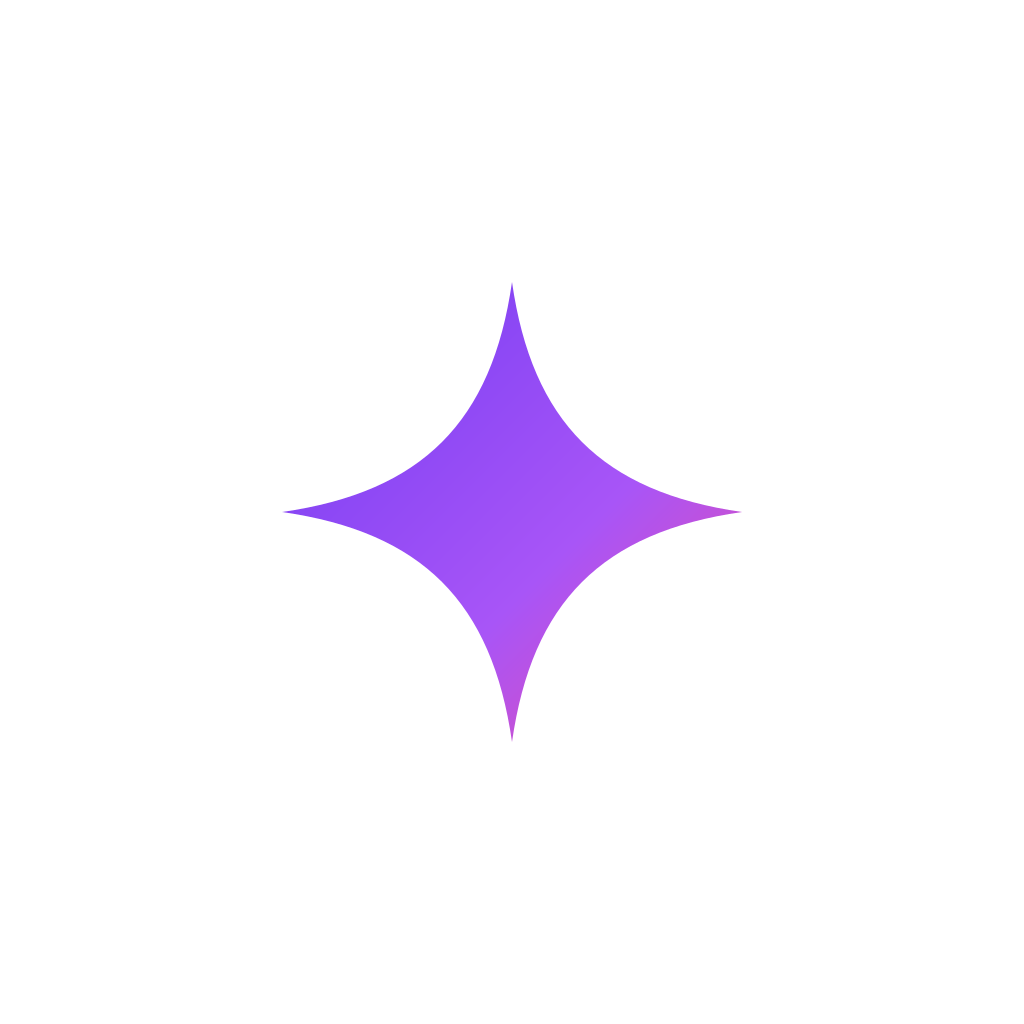
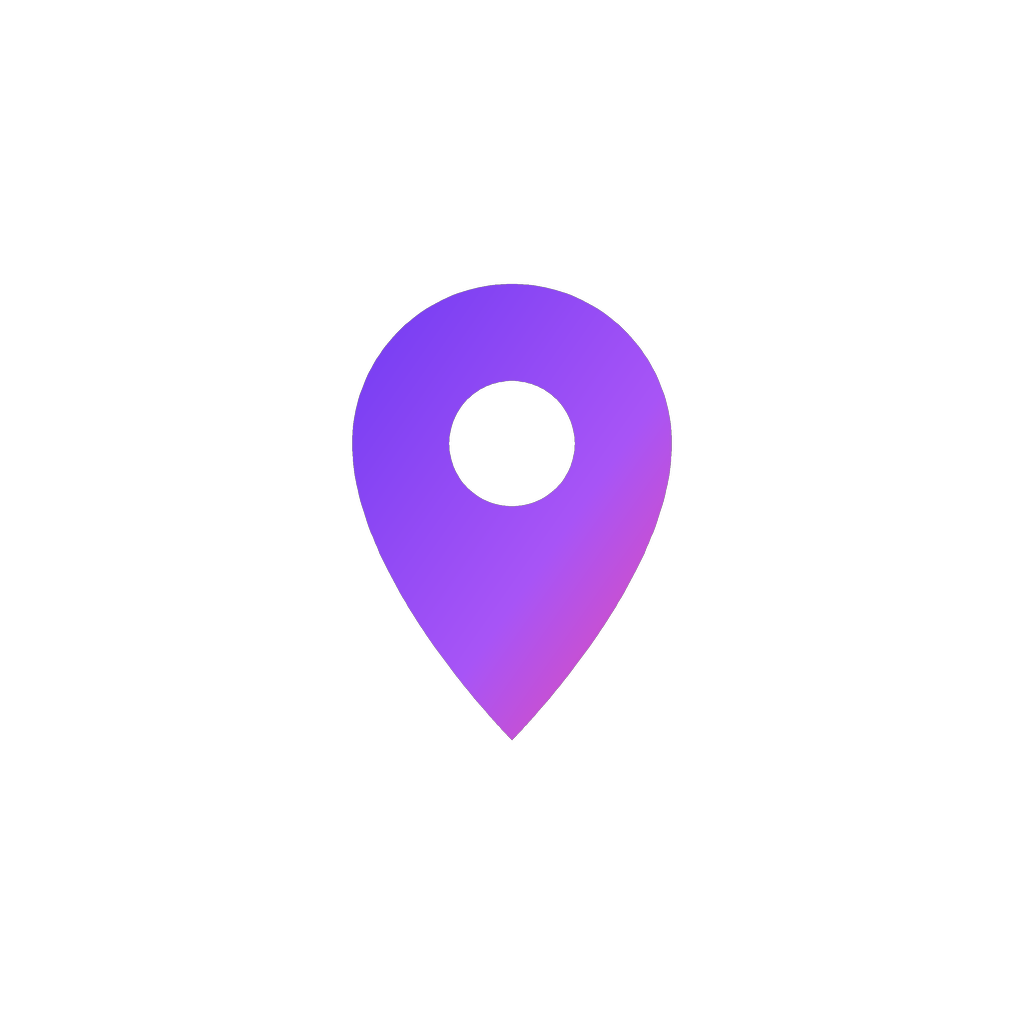
commit

Changed region(s): [[0.2812, 0.25, 0.7188, 0.5312], [0.375, 0.5312, 0.625, 0.7188]]

diff --git a/apps/api/src/notifications.ts b/apps/api/src/notifications.ts
@@ -19,11 +19,11 @@ export class NoopPushSender implements PushSender {
 export const PUSH_CHANNELS = ['invites', 'messages', 'open_calls', 'safety'] as const;
 type PushCopy = { title: string; body: string; channel: (typeof PUSH_CHANNELS)[number] };
 const COPY: Record<NotificationKind, PushCopy> = {
-  invite_received: { title: 'New invitation', body: 'Someone would like to say hi. Open SideQuest to respond.', channel: 'invites' },
+  invite_received: { title: 'New invitation', body: 'Someone would like to say hi. Open Waypoint to respond.', channel: 'invites' },
   invite_accepted: { title: 'Invitation accepted', body: 'It is on. Check your calendar for the details.', channel: 'invites' },
   invite_declined: { title: 'Invitation update', body: 'This invitation was not taken up this time.', channel: 'invites' },
   invite_too_new: { title: 'A gentle reply', body: 'They would like to take things slowly for now. No pressure either way.', channel: 'invites' },
-  invite_reschedule_requested: { title: 'New time suggested', body: 'Open SideQuest to accept it or suggest another.', channel: 'invites' },
+  invite_reschedule_requested: { title: 'New time suggested', body: 'Open Waypoint to accept it or suggest another.', channel: 'invites' },
   invite_rescheduled: { title: 'Time updated', body: 'Your plan has a new time. Your calendar is updated.', channel: 'invites' },
   invite_cancelled: { title: 'Plan cancelled', body: 'A plan on your calendar was cancelled.', channel: 'invites' },
   invite_expired: { title: 'Invitation expired', body: 'An invitation timed out without a reply.', channel: 'invites' },
@@ -32,28 +32,28 @@ const COPY: Record<NotificationKind, PushCopy> = {
   post_meet_prompt: { title: 'How did it go?', body: 'Two quick private questions help keep everyone safe.', channel: 'safety' },
   roulette_group_ready: { title: 'Your table is ready', body: 'Your Social Roulette group is set. Open the app for details.', channel: 'open_calls' },
   open_call_expired: { title: 'Open Call ended', body: 'One of your Open Calls has ended.', channel: 'open_calls' },
-  open_call_interest: { title: 'Someone is interested', body: 'Open SideQuest to see who and decide.', channel: 'open_calls' },
-  open_call_accepted: { title: 'You are in', body: 'Your spot is confirmed. Open SideQuest for details.', channel: 'open_calls' },
+  open_call_interest: { title: 'Someone is interested', body: 'Open Waypoint to see who and decide.', channel: 'open_calls' },
+  open_call_accepted: { title: 'You are in', body: 'Your spot is confirmed. Open Waypoint for details.', channel: 'open_calls' },
   open_call_update: { title: 'Open Call update', body: 'Something changed with a plan you are part of.', channel: 'open_calls' },
   activity_update: { title: 'Activity update', body: 'Something changed with an activity you joined.', channel: 'open_calls' },
-  message_received: { title: 'New message', body: 'Open SideQuest to read it.', channel: 'messages' },
-  wing_invited: { title: 'A request from a friend', body: 'Someone asked you to be their wingperson. Open SideQuest to decide.', channel: 'invites' },
+  message_received: { title: 'New message', body: 'Open Waypoint to read it.', channel: 'messages' },
+  wing_invited: { title: 'A request from a friend', body: 'Someone asked you to be their wingperson. Open Waypoint to decide.', channel: 'invites' },
   wing_suggestion: { title: 'A suggestion for you', body: 'A suggestion is waiting. Nothing changes unless you accept it.', channel: 'invites' },
-  team_invited: { title: 'Team invitation', body: 'You have been invited to join a team. Open SideQuest to respond.', channel: 'open_calls' },
-  double_date_request: { title: 'A plan request', body: 'Another team would like to plan something together. Open SideQuest to respond.', channel: 'open_calls' },
+  team_invited: { title: 'Team invitation', body: 'You have been invited to join a team. Open Waypoint to respond.', channel: 'open_calls' },
+  double_date_request: { title: 'A plan request', body: 'Another team would like to plan something together. Open Waypoint to respond.', channel: 'open_calls' },
   double_date_update: { title: 'Plan update', body: 'Something changed with a plan you are part of.', channel: 'open_calls' },
   roulette_update: { title: 'Table update', body: 'Something changed with your Social Roulette table.', channel: 'open_calls' },
-  game_invite: { title: 'Game invitation', body: 'Someone would like to play a short game. Open SideQuest to join.', channel: 'messages' },
-  circle_request: { title: 'Circle update', body: 'There is a new request on a circle you run. Open SideQuest to review it.', channel: 'open_calls' },
-  couple_invited: { title: 'A request to link up', body: 'You have a request waiting. Open SideQuest to review it.', channel: 'invites' },
-  trusted_added: { title: 'You were added as a trusted contact', body: 'Open SideQuest to see what that means. You can step down at any time.', channel: 'safety' },
+  game_invite: { title: 'Game invitation', body: 'Someone would like to play a short game. Open Waypoint to join.', channel: 'messages' },
+  circle_request: { title: 'Circle update', body: 'There is a new request on a circle you run. Open Waypoint to review it.', channel: 'open_calls' },
+  couple_invited: { title: 'A request to link up', body: 'You have a request waiting. Open Waypoint to review it.', channel: 'invites' },
+  trusted_added: { title: 'You were added as a trusted contact', body: 'Open Waypoint to see what that means. You can step down at any time.', channel: 'safety' },
   checkin_prompt: { title: 'Time to check in', body: 'Let us know you are okay. It takes one tap.', channel: 'safety' },
   checkin_missed: { title: 'Please check on a friend', body: 'A friend has not confirmed they are okay. Please try to reach them.', channel: 'safety' },
   checkin_help: { title: 'A friend asked for help', body: 'A friend has asked for help. Please reach out to them now.', channel: 'safety' },
   checkin_safe: { title: 'Good news', body: 'The friend you were worried about has confirmed they are okay.', channel: 'safety' },
-  moderation_notice: { title: 'An update on your account', body: 'Open SideQuest to read an important message about your account.', channel: 'safety' },
+  moderation_notice: { title: 'An update on your account', body: 'Open Waypoint to read an important message about your account.', channel: 'safety' },
   verification_result: { title: 'Photo verification update', body: 'Your photo verification was reviewed. Open the app to see the result.', channel: 'safety' },
-  export_ready: { title: 'Your data export is ready', body: 'Open SideQuest within 7 days to download it.', channel: 'safety' },
+  export_ready: { title: 'Your data export is ready', body: 'Open Waypoint within 7 days to download it.', channel: 'safety' },
 };
 /** True when this code knows how to word a push for `kind` (the database may know kinds this deployment does not). */
 export const hasPushCopy = (kind: string): kind is NotificationKind => (NOTIFICATION_KINDS as readonly string[]).includes(kind);

diff --git a/packages/shared/test/brand.test.ts b/packages/shared/test/brand.test.ts
@@ -1,0 +1,41 @@
+import { test } from 'node:test';
+import assert from 'node:assert/strict';
+import { readdirSync, readFileSync, statSync } from 'node:fs';
+import { join } from 'node:path';
+
+// The product is called Waypoint. These tests keep the old name out of everything people can see, and keep the identifiers that must NOT change.
+const root = new URL('../../../', import.meta.url).pathname;
+function files(dir: string, out: string[] = []): string[] {
+  for (const n of readdirSync(dir)) {
+    if (n === 'node_modules' || n === '.git' || n === 'migrations' || n.startsWith('.')) continue;
+    const p = join(dir, n); const s = statSync(p);
+    if (s.isDirectory()) files(p, out); else if (/\.(ts|tsx|json|mjs|html)$/.test(n) && !/package-lock|pnpm-lock/.test(n)) out.push(p);
+  }
+  return out;
+}
+
+test('the old product name appears nowhere in app, API or shared code', () => {
+  const hits: string[] = [];
+  for (const d of ['apps/api/src', 'apps/api/test', 'apps/mobile/app', 'apps/mobile/src', 'apps/mobile/test', 'packages/shared/src']) {
+    for (const f of files(join(root, d))) if (/side\s?quest/i.test(readFileSync(f, 'utf8').replace(/@sidequest\/shared/g, '').replace(/sidequest:\/\//g, '').replace(/app\.sidequest\.android/g, '').replace(/@sidequest\.app/g, '').replace(/inv-1@sidequest/g, ''))) hits.push(f.replace(root, ''));
+  }
+  assert.deepEqual(hits, [], 'rename these (user-visible text), or add the identifier to the allowed list in this test');
+});
+
+test('app.json: the phone shows Waypoint, and the identifiers that must stay stable are unchanged', () => {
+  const app = JSON.parse(readFileSync(join(root, 'apps/mobile/app.json'), 'utf8')).expo;
+  assert.equal(app.name, 'Waypoint');
+  assert.equal(app.android.package, 'app.sidequest.android');   // permanent once uploaded to Google Play, and tied to google-services.json
+  assert.equal(app.slug, 'sidequest');                          // identity of the EAS project
+  assert.equal(app.scheme, 'sidequest');                        // sign-in and verification return links (Supabase and Didit are set up with it)
+  assert.equal(app.android.googleServicesFile, './google-services.json');
+  const text = JSON.stringify(app);
+  assert.ok(/Waypoint uses the photos/.test(text) && /Waypoint uses your approximate location/.test(text), 'permission explanations use the new name');
+});
+
+test('the calendar file and notification text use the new name', () => {
+  const api = readFileSync(join(root, 'apps/api/src/app.ts'), 'utf8');
+  assert.ok(api.includes('filename="waypoint-${id}.ics"'));
+  assert.ok(readFileSync(join(root, 'packages/shared/src/ics.ts'), 'utf8').includes('PRODID:-//Waypoint//Calendar//EN'));
+  assert.ok(readFileSync(join(root, 'apps/api/src/notifications.ts'), 'utf8').includes('Open Waypoint to read it.'));
+});

diff --git a/apps/mobile/src/core/safety-core.ts b/apps/mobile/src/core/safety-core.ts
@@ -22,7 +22,7 @@ export function restrictedView(state: string, requests: DataRequestRow[]): Restr
     if (del) return { kind: 'deletion_pending', headline: 'Your account is scheduled for deletion', body: 'Nobody can see your profile now. If you change your mind you can cancel before the date below and everything comes back.', canAppeal: false, canCancelDeletion: true, deletesAt: deletionDate(del.requested_at) };
     return { kind: 'closed', headline: 'Your account is closed', body: 'This account has been closed and its data is being or has been removed.', canAppeal: false, canCancelDeletion: false, deletesAt: null };
   }
-  if (state === 'banned') return { kind: 'banned', headline: 'Your account has been closed by our team', body: 'We removed this account to keep SideQuest safe. If you think this was a mistake you can ask for a review. A person reads every appeal.', canAppeal: true, canCancelDeletion: false, deletesAt: null };
+  if (state === 'banned') return { kind: 'banned', headline: 'Your account has been closed by our team', body: 'We removed this account to keep Waypoint safe. If you think this was a mistake you can ask for a review. A person reads every appeal.', canAppeal: true, canCancelDeletion: false, deletesAt: null };
   return { kind: 'suspended', headline: 'Your account is on hold', body: 'Our team paused this account for now. Some holds end by themselves. If you think this was a mistake you can ask for a review. A person reads every appeal.', canAppeal: true, canCancelDeletion: false, deletesAt: null };
 }
 export const APPEAL = { min: 10, max: 1000 };
@@ -54,7 +54,7 @@ export function summarizeData(rows: DataRequestRow[], now: Date): DataSummary {
   return { exportState, exportRequest: latest, deletion, deletesAt: deletion ? deletionDate(deletion.requested_at) : null };
 }
 export const exportStateText: Record<DataSummary['exportState'], string> = {
-  none: 'Get a copy of the information SideQuest holds about you.', preparing: 'Preparing your export. This usually takes a few minutes.',
+  none: 'Get a copy of the information Waypoint holds about you.', preparing: 'Preparing your export. This usually takes a few minutes.',
   ready: 'Your export is ready. The download link works for 5 minutes each time you open it, and the file is kept for 7 days.',
   failed: 'The last export did not work. You can ask for a new one.', expired: 'Your last export has expired. You can ask for a new one.',
 };

diff --git a/apps/api/test/public-pages.test.ts b/apps/api/test/public-pages.test.ts
@@ -10,7 +10,7 @@ import { loadConfig } from '../src/config.ts';
 import { setup } from './helpers.ts';
 
 const SUPA = 'https://p.supabase.co';
-const LEGAL: LegalConfig = { legalName: 'Acme <b>Ltd</b>', contactEmail: 'hello@acme.test', childSafetyEmail: 'safety@acme.test', supabaseUrl: SUPA, anonKey: 'anon', appName: 'SideQuest' };
+const LEGAL: LegalConfig = { legalName: 'Acme <b>Ltd</b>', contactEmail: 'hello@acme.test', childSafetyEmail: 'safety@acme.test', supabaseUrl: SUPA, anonKey: 'anon', appName: 'Waypoint' };
 
 test('privacy policy covers what Google Play requires and what the app really does', () => {
   const h = privacyHtml(LEGAL, 'N');
@@ -61,7 +61,7 @@ test('HTTP: pages stay OFF until the legal name and contact email are configured
 test('config: pages switch on from LEGAL_NAME and CONTACT_EMAIL; child-safety contact defaults to the main one', () => {
   const base = { DATABASE_URL: 'x', SUPABASE_URL: 'https://a.supabase.co' };
   const c = loadConfig({ ...base, LEGAL_NAME: ' Acme ', CONTACT_EMAIL: 'a@b.c' });
-  assert.deepEqual([c.legalName, c.contactEmail, c.childSafetyEmail, c.appName], ['Acme', 'a@b.c', 'a@b.c', 'SideQuest']);
+  assert.deepEqual([c.legalName, c.contactEmail, c.childSafetyEmail, c.appName], ['Acme', 'a@b.c', 'a@b.c', 'Waypoint']);
   assert.equal(loadConfig({ ...base, LEGAL_NAME: 'Acme', CONTACT_EMAIL: 'a@b.c', CHILD_SAFETY_EMAIL: 's@b.c' }).childSafetyEmail, 's@b.c');
   assert.equal(loadConfig(base).legalName, null);
 });

diff --git a/apps/mobile/app/invite/[id].tsx b/apps/mobile/app/invite/[id].tsx
@@ -75,7 +75,7 @@ export default function InviteDetail() {
 
         {inv.state === 'too_new' && party === 'sender' ? <><Spacer /><Card><AppText>{name} is not ready to schedule something yet, but may be open to getting to know you. There is nothing you need to do. If they would like to say hello, they will.</AppText></Card></> : null}
         {inv.state === 'too_new' && party === 'recipient' ? <><Spacer /><Card><AppText variant="caption">You told them you are not ready to schedule yet. You can say hello when you feel like it, or suggest a time.</AppText></Card></> : null}
-        {confirmed && isCall ? <><Spacer /><Card><AppText variant="caption">This is a {FORMAT_LABELS[inv.format as Format].toLowerCase()}. In-app calling arrives in a later update. Until then, chat in SideQuest at the agreed time.</AppText></Card></> : null}
+        {confirmed && isCall ? <><Spacer /><Card><AppText variant="caption">This is a {FORMAT_LABELS[inv.format as Format].toLowerCase()}. In-app calling arrives in a later update. Until then, chat in Waypoint at the agreed time.</AppText></Card></> : null}
 
         <Spacer />
         {actions.includes('accept') ? <><Button label="Accept" loading={busy === 'accept'} onPress={() => void run('accept', () => api.accept(inv.id))} /><Spacer h={10} /></> : null}

diff --git a/apps/mobile/app/invite/new.tsx b/apps/mobile/app/invite/new.tsx
@@ -39,7 +39,7 @@ export default function NewInvite() {
       <Spacer />
       <AppText variant="title">How?</AppText><Spacer h={8} />
       <Wrap>{FORMATS.map((f) => <Chip key={f} label={FORMAT_LABELS[f]} selected={format === f} onPress={() => setFormat(f)} />)}</Wrap>
-      <View style={{ flexDirection: 'row', alignItems: 'center', gap: 6, marginTop: 8 }}><Ionicons name={FORMAT_ICONS[format] as never} size={16} color={colors.textMuted} /><AppText variant="caption">{format === 'text' || format === 'intro_chat' ? 'Happens in a SideQuest chat at the agreed time.' : 'You will meet at the agreed time. In-app calling arrives in a later update, so you can chat in SideQuest until then.'}</AppText></View>
+      <View style={{ flexDirection: 'row', alignItems: 'center', gap: 6, marginTop: 8 }}><Ionicons name={FORMAT_ICONS[format] as never} size={16} color={colors.textMuted} /><AppText variant="caption">{format === 'text' || format === 'intro_chat' ? 'Happens in a Waypoint chat at the agreed time.' : 'You will meet at the agreed time. In-app calling arrives in a later update, so you can chat in Waypoint until then.'}</AppText></View>
       <Spacer />
       <AppText variant="title">When?</AppText><Spacer h={8} />
       <TimePicker value={when} onChange={setWhen} />

diff --git a/apps/api/src/config.ts b/apps/api/src/config.ts
@@ -55,7 +55,7 @@ export function loadConfig(env: Record<string, string | undefined>, role: 'api' 
     callsEnabled: wantCalls && livekit !== null, livekit, corsOrigin: env.CORS_ORIGIN?.trim() || null,
     photoModeration: pm as 'required' | 'off', serviceRoleKey: env.SUPABASE_SERVICE_ROLE_KEY?.trim() || null,
     webhookSecret: env.WEBHOOK_SECRET?.trim() || null, anonKey: env.SUPABASE_ANON_KEY?.trim() || null,
-    legalName: env.LEGAL_NAME?.trim() || null, contactEmail: env.CONTACT_EMAIL?.trim() || null, childSafetyEmail: env.CHILD_SAFETY_EMAIL?.trim() || env.CONTACT_EMAIL?.trim() || null, appName: env.APP_NAME?.trim() || 'SideQuest',
+    legalName: env.LEGAL_NAME?.trim() || null, contactEmail: env.CONTACT_EMAIL?.trim() || null, childSafetyEmail: env.CHILD_SAFETY_EMAIL?.trim() || env.CONTACT_EMAIL?.trim() || null, appName: env.APP_NAME?.trim() || 'Waypoint',
     didit: diditSet.length === diditKeys.length ? { apiKey: env.DIDIT_API_KEY!.trim(), workflowId: env.DIDIT_WORKFLOW_ID!.trim(), webhookSecret: env.DIDIT_WEBHOOK_SECRET!.trim(), baseUrl: env.DIDIT_BASE_URL?.trim() || null, minScore, monthlyCap, returnUrl: env.VERIFY_RETURN_URL?.trim() || 'sidequest://safety/verify' } : null,
   };
 }

diff --git a/apps/mobile/src/design/Logo.tsx b/apps/mobile/src/design/Logo.tsx
@@ -1,17 +1,17 @@
 import Svg, { Defs, LinearGradient, Path, Stop } from 'react-native-svg';
 
-/** Four-point sparkle in the brand gradient. Pure vector, scales to any size. */
+/** Waypoint: a map pin in the brand gradient. Pure vector, scales to any size. (Same shape as assets/icon.png.) */
 export function Logo({ size = 64 }: { size?: number }) {
   return (
-    <Svg width={size} height={size} viewBox="0 0 100 100" accessibilityLabel="SideQuest logo">
+    <Svg width={size} height={size} viewBox="0 0 100 100" accessibilityLabel="Waypoint logo">
       <Defs>
-        <LinearGradient id="sq" x1="0" y1="0" x2="1" y2="1">
+        <LinearGradient id="wp" x1="0" y1="0" x2="1" y2="1">
           <Stop offset="0" stopColor="#713BF2" />
           <Stop offset="0.6" stopColor="#A855F7" />
           <Stop offset="1" stopColor="#EF4BA8" />
         </LinearGradient>
       </Defs>
-      <Path d="M50 4 C54 32 68 46 96 50 C68 54 54 68 50 96 C46 68 32 54 4 50 C32 46 46 32 50 4 Z" fill="url(#sq)" />
+      <Path d="M50 92 C50 92 22 64 22 40 A28 28 0 0 1 78 40 C78 64 50 92 50 92 Z M50 29 A11 11 0 1 0 50 51 A11 11 0 1 0 50 29 Z" fill="url(#wp)" fillRule="evenodd" />
     </Svg>
   );
 }

diff --git a/apps/mobile/src/core/onboarding.ts b/apps/mobile/src/core/onboarding.ts
@@ -86,7 +86,7 @@ export function nameProblem(raw: string): string | null {
   const n = raw.trim();
   if (n.length < LIMITS.nameMin) return `Your name needs at least ${LIMITS.nameMin} characters.`;
   if (n.length > LIMITS.nameMax) return `Keep your name under ${LIMITS.nameMax} characters.`;
-  if (/@|https?:|www\.|\.com\b/i.test(n) || /\d{6,}/.test(n.replace(/[\s-]/g, ''))) return 'Please leave contact details out of your name. You can chat inside SideQuest.';
+  if (/@|https?:|www\.|\.com\b/i.test(n) || /\d{6,}/.test(n.replace(/[\s-]/g, ''))) return 'Please leave contact details out of your name. You can chat inside Waypoint.';
   return null;
 }
 
@@ -98,7 +98,7 @@ export function validateStep(step: Step, s: OnboardingState, now: Date): string[
       let age: number;
       try { age = ageOn(s.dob, now); } catch { e.push('That date does not look right.'); break; }
       if (age > 110) e.push('That date does not look right.');
-      else if (!isAdult(s.dob, now)) e.push('SideQuest is for adults. You need to be 18 or over.');
+      else if (!isAdult(s.dob, now)) e.push('Waypoint is for adults. You need to be 18 or over.');
       break;
     }
     case 'basics': {

diff --git a/apps/mobile/app/safety/index.tsx b/apps/mobile/app/safety/index.tsx
@@ -30,7 +30,7 @@ export default function SafetyHub() {
         <AppText variant="headline">{code.data ? formatFriendCode(code.data) : '...'}</AppText>
         {code.error || error ? <ErrorText>{code.error ?? error}</ErrorText> : null}
         <Spacer h={8} />
-        <Button label="Share my code" disabled={!code.data} onPress={() => void Share.share({ message: `Add me on SideQuest with this friend code: ${formatFriendCode(code.data ?? '')}` })} />
+        <Button label="Share my code" disabled={!code.data} onPress={() => void Share.share({ message: `Add me on Waypoint with this friend code: ${formatFriendCode(code.data ?? '')}` })} />
         <Spacer h={8} />
         <Button kind="ghost" label="Get a new code" loading={busy} onPress={() => Alert.alert('Get a new code?', 'Your old code stops working. People you already added are not affected.', [{ text: 'Keep it', style: 'cancel' }, { text: 'New code', onPress: () => void run(async () => { await db.resetFriendCode(); void code.reload(); }) }])} />
       </Card>

diff --git a/apps/mobile/app/activity/new.tsx b/apps/mobile/app/activity/new.tsx
@@ -32,7 +32,7 @@ function NewActivity() {
         <Pressable onPress={() => router.back()} accessibilityRole="button" accessibilityLabel="Back" hitSlop={12}><Ionicons name="chevron-back" size={26} color={colors.text} /></Pressable>
         <AppText variant="headline" accessibilityRole="header">Host an activity</AppText>
       </Row>
-      <Card><AppText variant="caption">Activities are public: anyone on SideQuest can see and join them. Choose a public venue and keep personal details out of the description.</AppText></Card>
+      <Card><AppText variant="caption">Activities are public: anyone on Waypoint can see and join them. Choose a public venue and keep personal details out of the description.</AppText></Card>
       <Spacer />
       <AppText variant="title">What kind?</AppText><Spacer h={8} />
       <Wrap>{ACTIVITY_CATEGORIES.map((c) => <Chip key={c.id} label={c.label} selected={f.category === c.id} onPress={() => set({ category: c.id })} />)}</Wrap>

diff --git a/apps/api/src/admin-page.ts b/apps/api/src/admin-page.ts
@@ -34,9 +34,9 @@ export function adminPageHtml(o: { nonce: string; supabaseUrl: string; anonKey: 
   const n = o.nonce;
   return `<!doctype html>
 <html lang="en"><head><meta charset="utf-8"><meta name="viewport" content="width=device-width,initial-scale=1"><meta name="robots" content="noindex,nofollow">
-<title>SideQuest moderation</title><style nonce="${n}">${CSS}</style></head>
+<title>Waypoint moderation</title><style nonce="${n}">${CSS}</style></head>
 <body>
-<header><strong>SideQuest moderation</strong><button id="signout" type="button">Sign out</button></header>
+<header><strong>Waypoint moderation</strong><button id="signout" type="button">Sign out</button></header>
 <main>
 <p id="msg" class="ok" role="status"></p>
 <section id="login"><h2>Sign in</h2><p class="muted">Moderators only. Use the email address on your moderator account; you will get a one-time code.</p>
